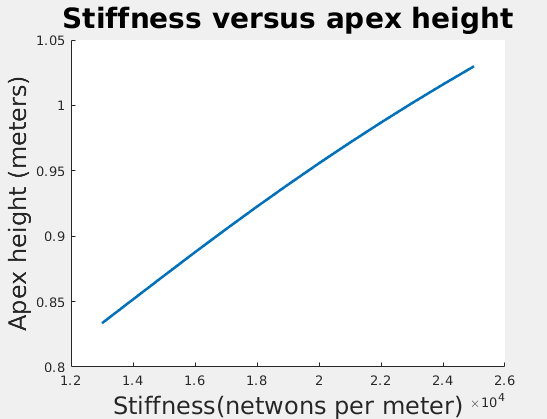
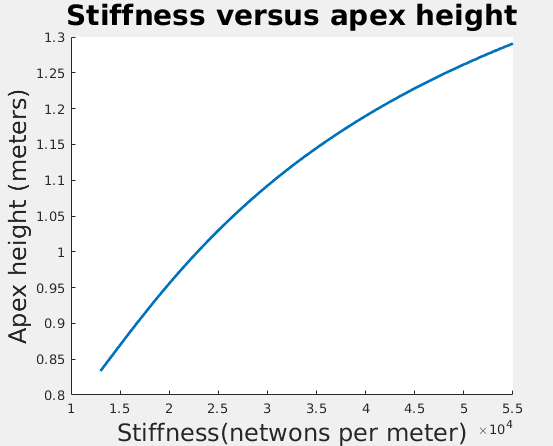
Finished problem 2

diff --git a/grid_search_minimization.m b/grid_search_minimization.m
@@ -1,0 +1,68 @@
+% Model Parameters
+g = 9.81;
+k = 20000;
+m = 80;
+l0 = 1;
+dx0 = 5;
+y0 = 1;
+Esys = m*g*l0 + m/2*dx0^2;
+a0 = 68 * pi/180;
+
+% fixed initial conditions
+x0=0;
+dy0=0;
+
+% cretae Poincare map
+
+nk = 26;
+
+k_min = 5000;
+k_max = 55000;
+kVec = linspace(k_min, k_max, nk);
+
+ny0 = 26;
+
+y0_min = l0*sin(a0) + eps;
+y0_max = 1.5;
+y0Vec = linspace( y0_min, y0_max, ny0);
+
+y1Vec = NaN*kVec;
+
+TARGET_Y = 1.05;
+
+for kIdx = 1:nk
+    
+    k = kVec(kIdx);
+    
+    for yIdx = 1:ny0
+
+        dx0 = sqrt(2/m*(Esys-m*g*y0));
+        y0 = y0Vec(yIdx);
+
+        sim('problem_1');
+
+        if ~isempty(y1)
+            if dx>=0
+                if y1 > 0.5
+                    y1Vec(kIdx,yIdx)=y1; 
+                end
+            end
+        end
+    end
+end
+
+[min_col, idx_rows] = min(abs(TARGET_Y-y1Vec));
+% [min_glob, idx_col] = min(min_col);
+% idx_row = idx_rows(idx_col);
+
+% For linear stiffness, minimum was found at aIdx = 11, yIdx = 12, a0 =
+% 70.2632
+
+y1K = zeros(1,ny0);
+for ii = 1:ny0
+    y1K(ii) = y1Vec(idx_rows(ii),ii);
+end
+
+
+
+return

diff --git a/plot_minimization.m b/plot_minimization.m
@@ -1,0 +1,27 @@
+% plot for minimization
+
+clf;
+hold on;
+
+load('p2vars.mat')
+
+last_valid = 20;
+
+plot(y1Vec(idx_rows(1:last_valid)), kVec(1:last_valid),'LineWidth',2);
+xlabel('yi (meters)','fontsize',18);
+ylabel('k(yi)','fontsize',18);
+title('Stiffness as a function of yi','fontsize',21);
+xlim([0.98*y1Vec(idx_rows(last_valid)), y1Vec(idx_rows(1))*1.02]);
+
+p1 = [y1Vec(idx_rows(4)), kVec(4)];
+p2 = [y1Vec(idx_rows(last_valid-2)), kVec(last_valid-2)];
+
+y_slope = (p2(2) - p1(2)) / (p2(1) - p1(1));
+y_intercept = p2(2) - y_slope*p2(1);
+
+line_ = y_slope*y0Vec;
+line_ = line_ + y_intercept;
+
+
+
+plot(y0Vec, line_,'LineWidth',2);

diff --git a/problem_1_script.m b/problem_1_script.m
@@ -14,10 +14,10 @@ dy0=0;
 
 % cretae Poincare map
 
-nk = 21;
+nk = 51;
 
 k_min = 5000;
-k_max = 25000;
+k_max = 55000;
 kVec = linspace(k_min, k_max, nk);
 
 % y0Vec = linspace( l0*sin(a0), 1.4, ny0);
